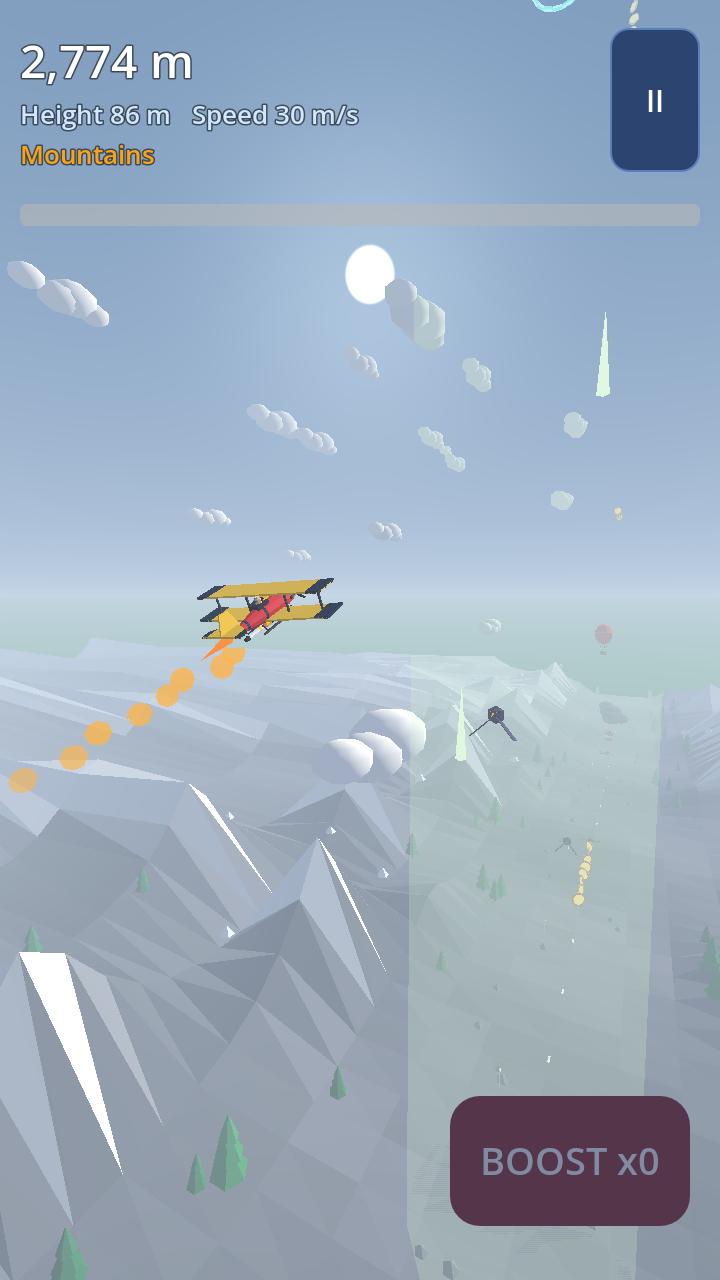
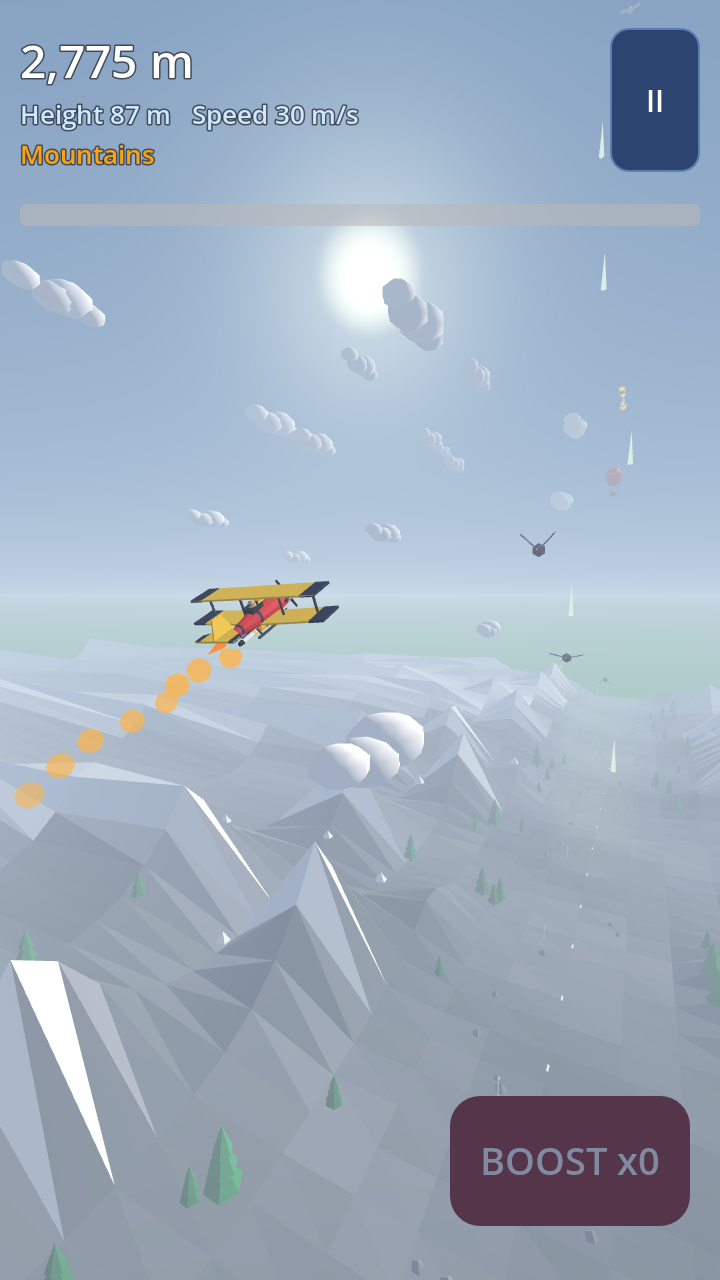
fix: MSAA 2x set, soft sun, near-camera pickup fade, soft updrafts, later night sky, exact launch drag mapping, multi-flight leak test

diff --git a/README.md b/README.md
@@ -8,7 +8,7 @@ No ads, no in-app purchases, no third-party assets: all art and sound are genera
 ![mountains](docs/screenshots/flight_mountains.png) ![clouds](docs/screenshots/flight_clouds.png) ![space](docs/screenshots/flight_space.png) ![hangar](docs/screenshots/hangar.png) ![evolved](docs/screenshots/evolved.png)
 
 ## 3D (v2)
-The game is rendered in real 3D (Godot Mobile renderer, 2x MSAA, no shadows, one cheap blob shadow). Every model is built in code from
+The game is rendered in real 3D (Godot Mobile renderer, 2x MSAA (`rendering/anti_aliasing/quality/msaa_3d=1`), no shadows, one cheap blob shadow). Every model is built in code from
 primitive meshes (`scripts/game/mesh_builder.gd`): the plane (7 tier silhouettes, every part level looks different), the slingshot
 (9 levels, stretching bands, 3D aim arc), pickups and hazards, and procedural terrain chunks per zone (pooled and freed as you fly,
 so memory stays flat). Chase camera, landing camera, rotating hangar turntable. Flight physics is still the 2D vertical-plane model,
